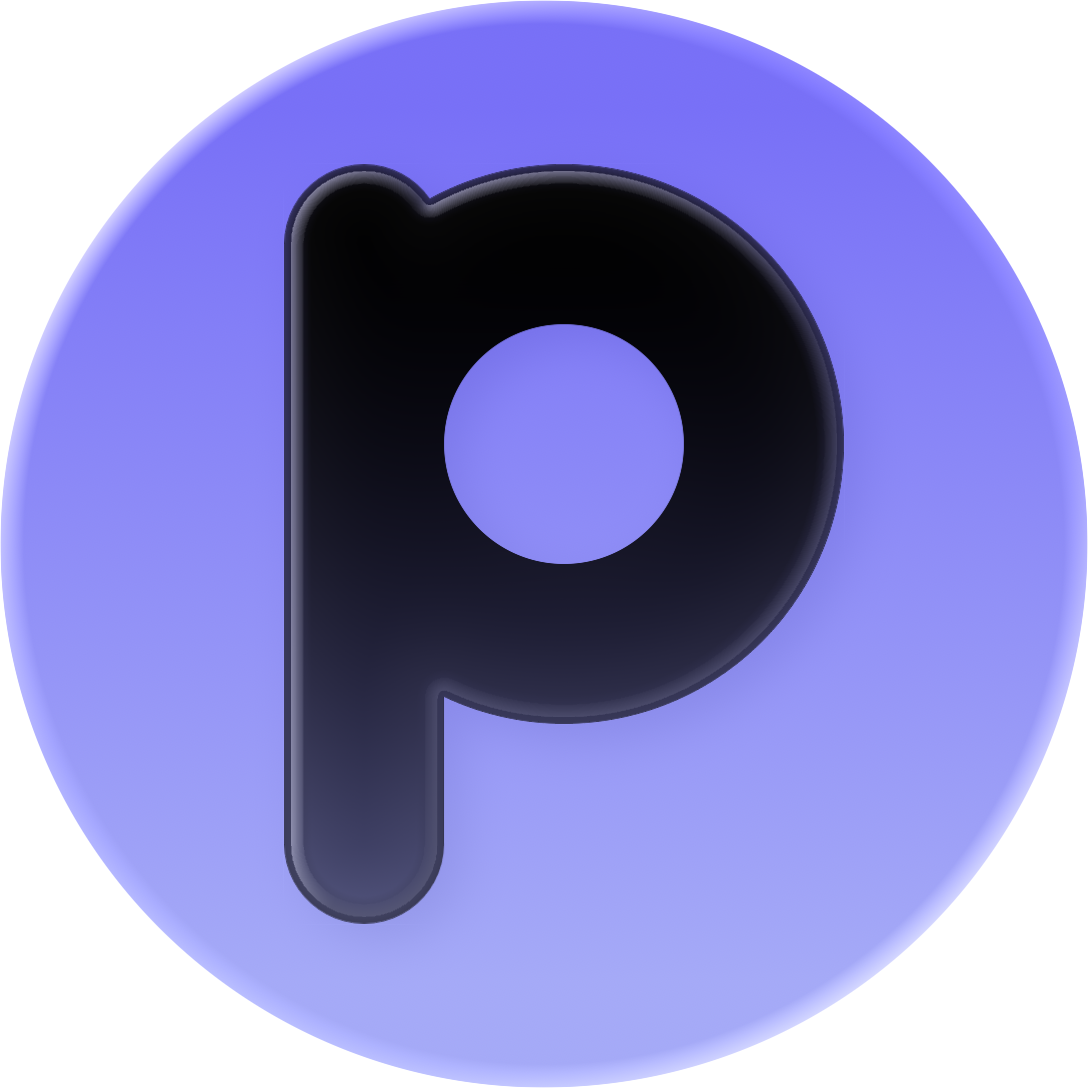
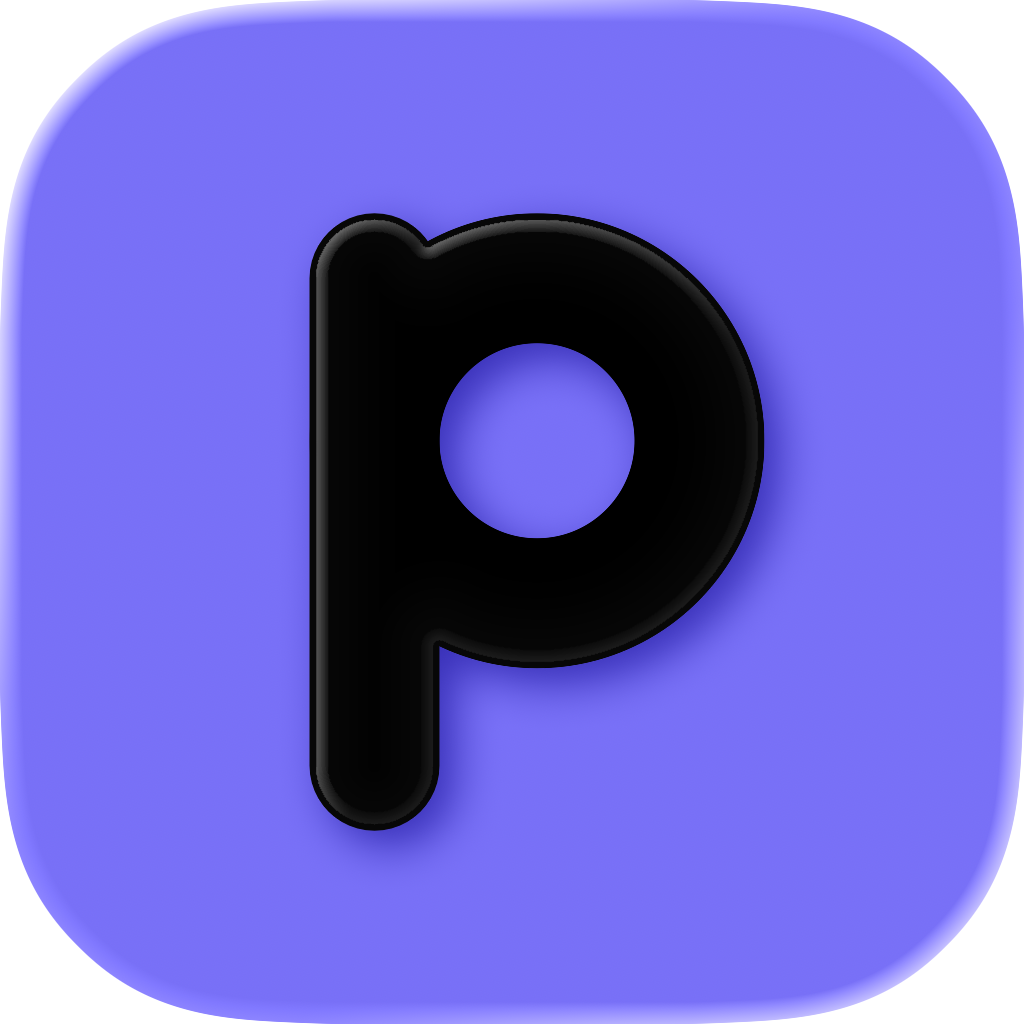
Updated!

diff --git a/app/layout.tsx b/app/layout.tsx
@@ -16,32 +16,22 @@ export const metadata: Metadata = {
   generator: "v0.app",
   icons: {
     icon: [
-      {
-        url: "/icon-light-32x32.png",
-        media: "(prefers-color-scheme: light)",
-      },
-      {
-        url: "/icon-dark-32x32.png",
-        media: "(prefers-color-scheme: dark)",
-      },
-      {
-        url: "/icon.svg",
-        type: "image/svg+xml",
-      },
+      { url: "/app-icon.png", sizes: "32x32", type: "image/png" },
+      { url: "/app-icon.png", sizes: "16x16", type: "image/png" },
     ],
-    apple: "/apple-icon.png",
+    apple: "/app-icon.png",
   },
 }
 
 export default function RootLayout({
-  children,
-}: Readonly<{
+                                     children,
+                                   }: Readonly<{
   children: React.ReactNode
 }>) {
   return (
-    <html lang="en" suppressHydrationWarning>
+      <html lang="en" suppressHydrationWarning>
       <body className={`font-sans antialiased`}>
-        <script
+      <script
           dangerouslySetInnerHTML={{
             __html: `
 (function() {
@@ -55,14 +45,14 @@ export default function RootLayout({
   }
 })();`,
           }}
-        />
-        <LanguageProvider>
-          {children}
-          <Footer />
-          <Toaster />
-          <Analytics />
-        </LanguageProvider>
+      />
+      <LanguageProvider>
+        {children}
+        <Footer />
+        <Toaster />
+        <Analytics />
+      </LanguageProvider>
       </body>
-    </html>
+      </html>
   )
 }
